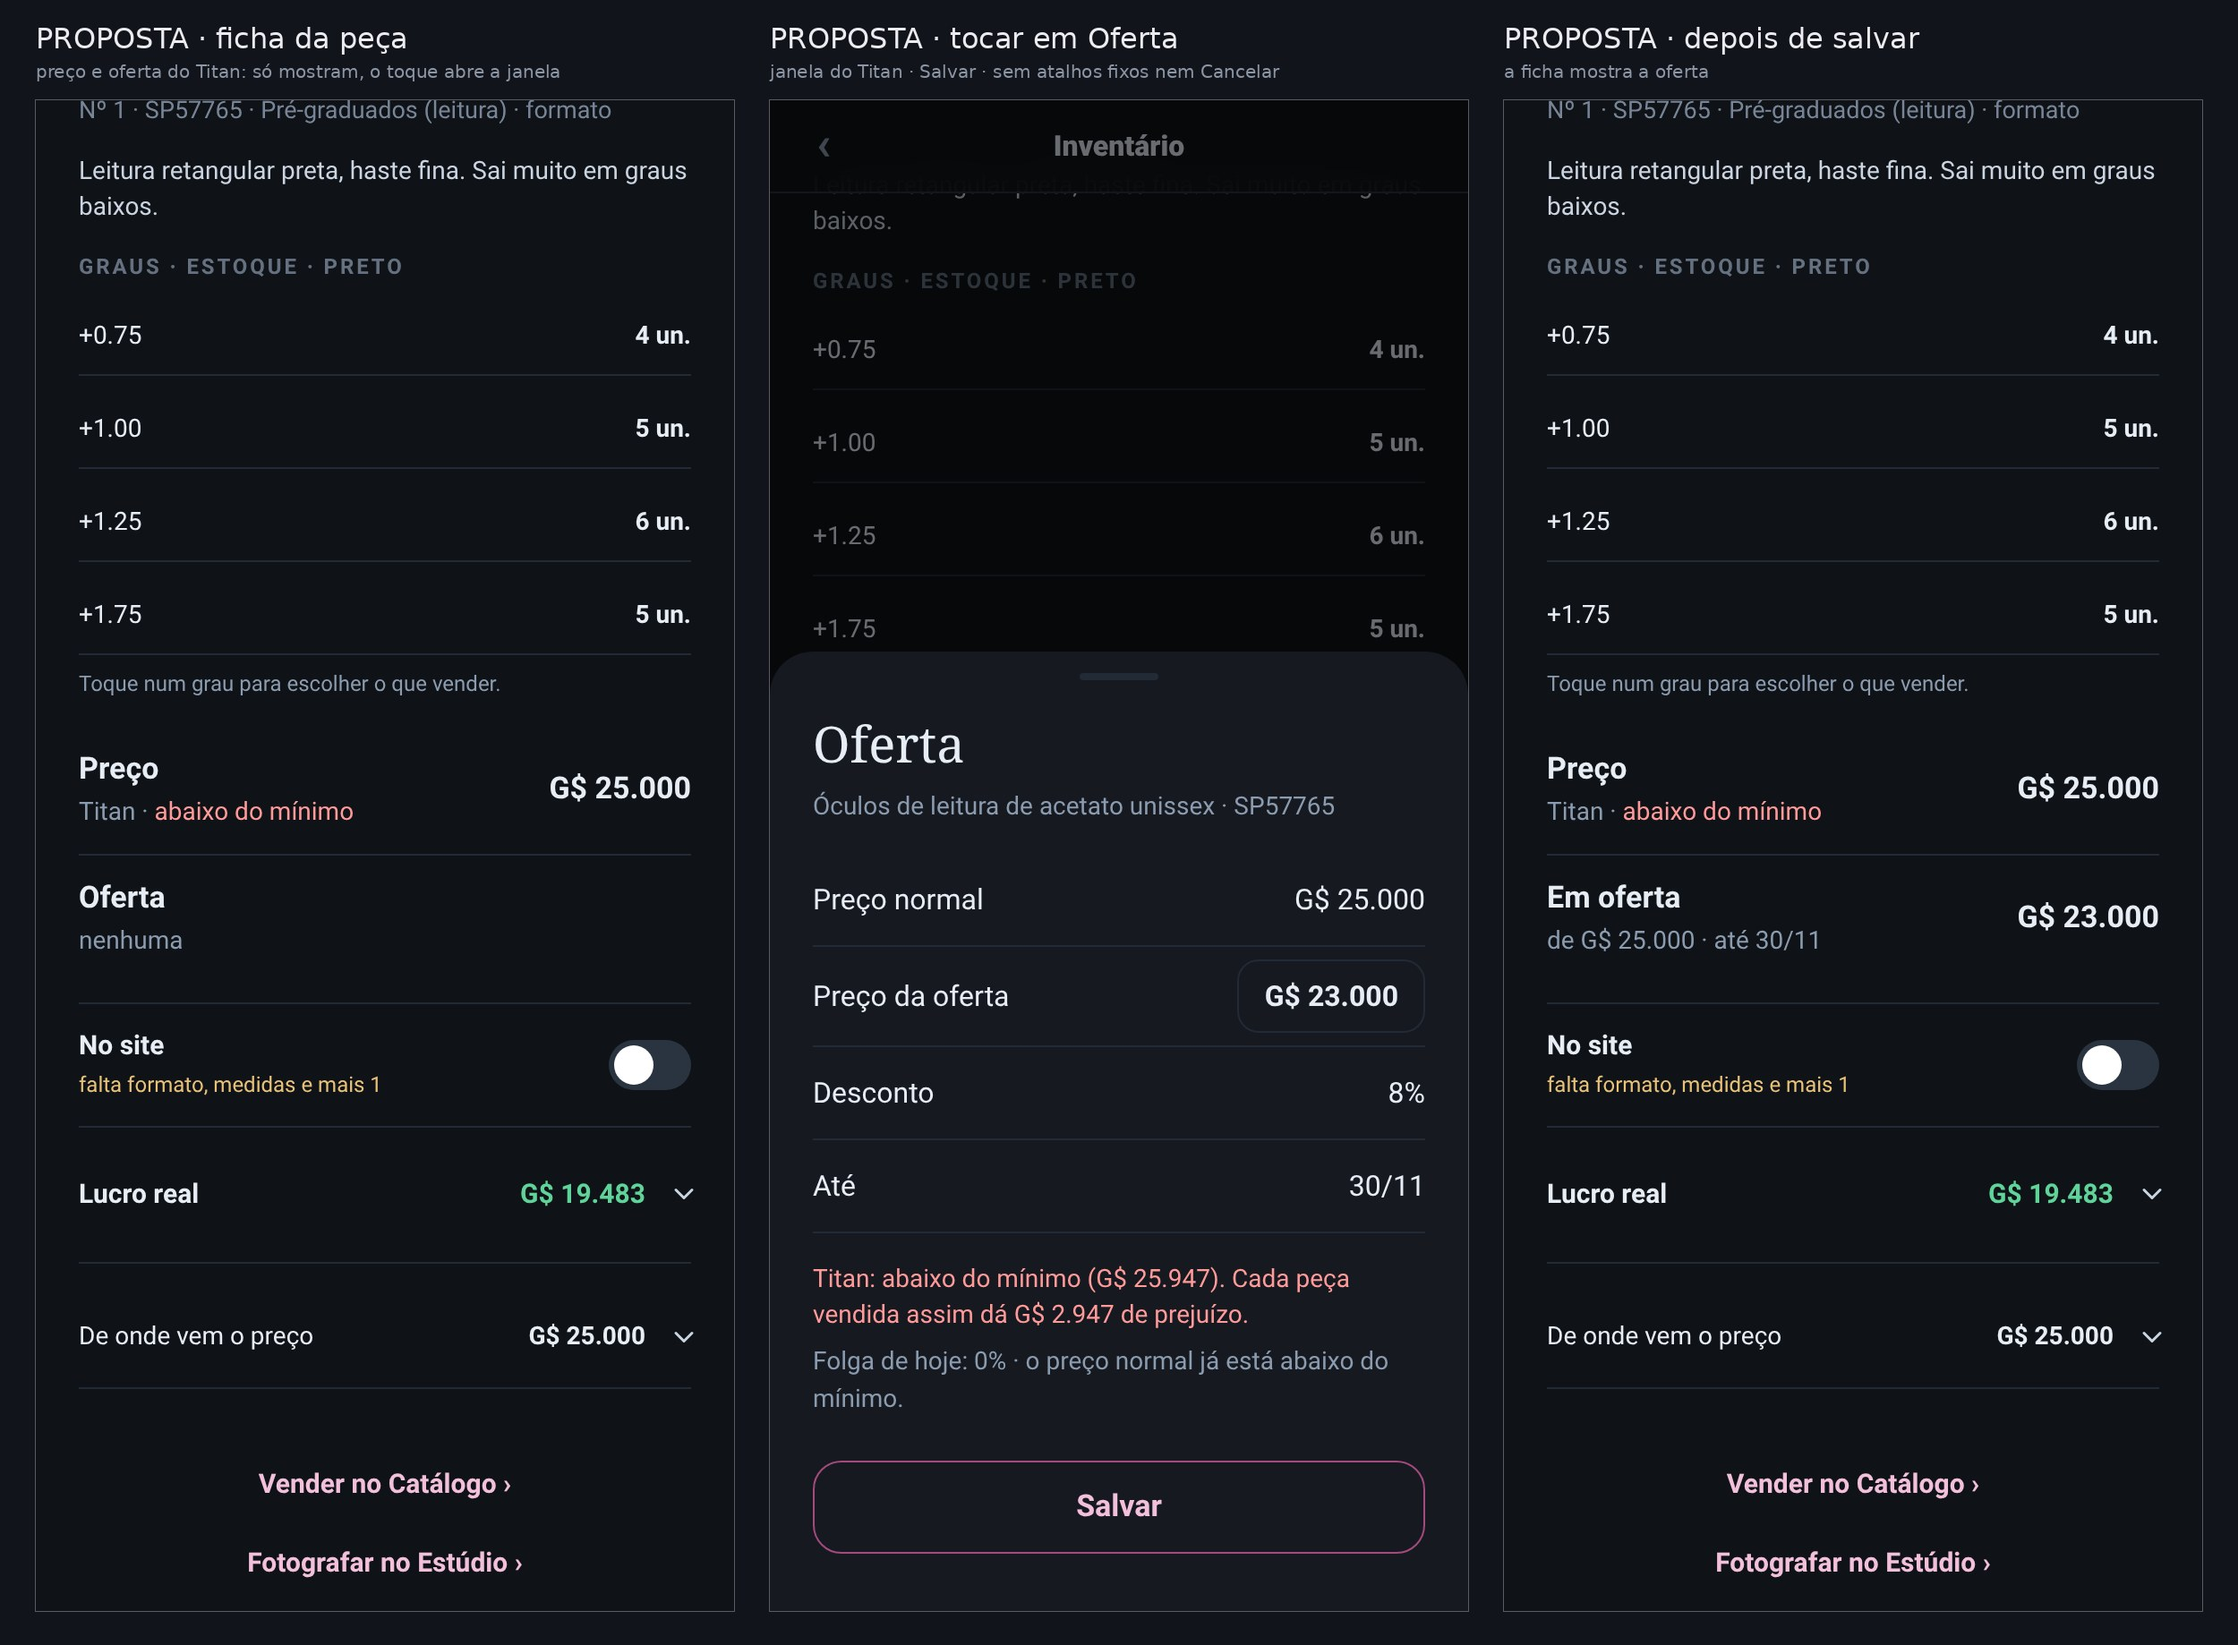
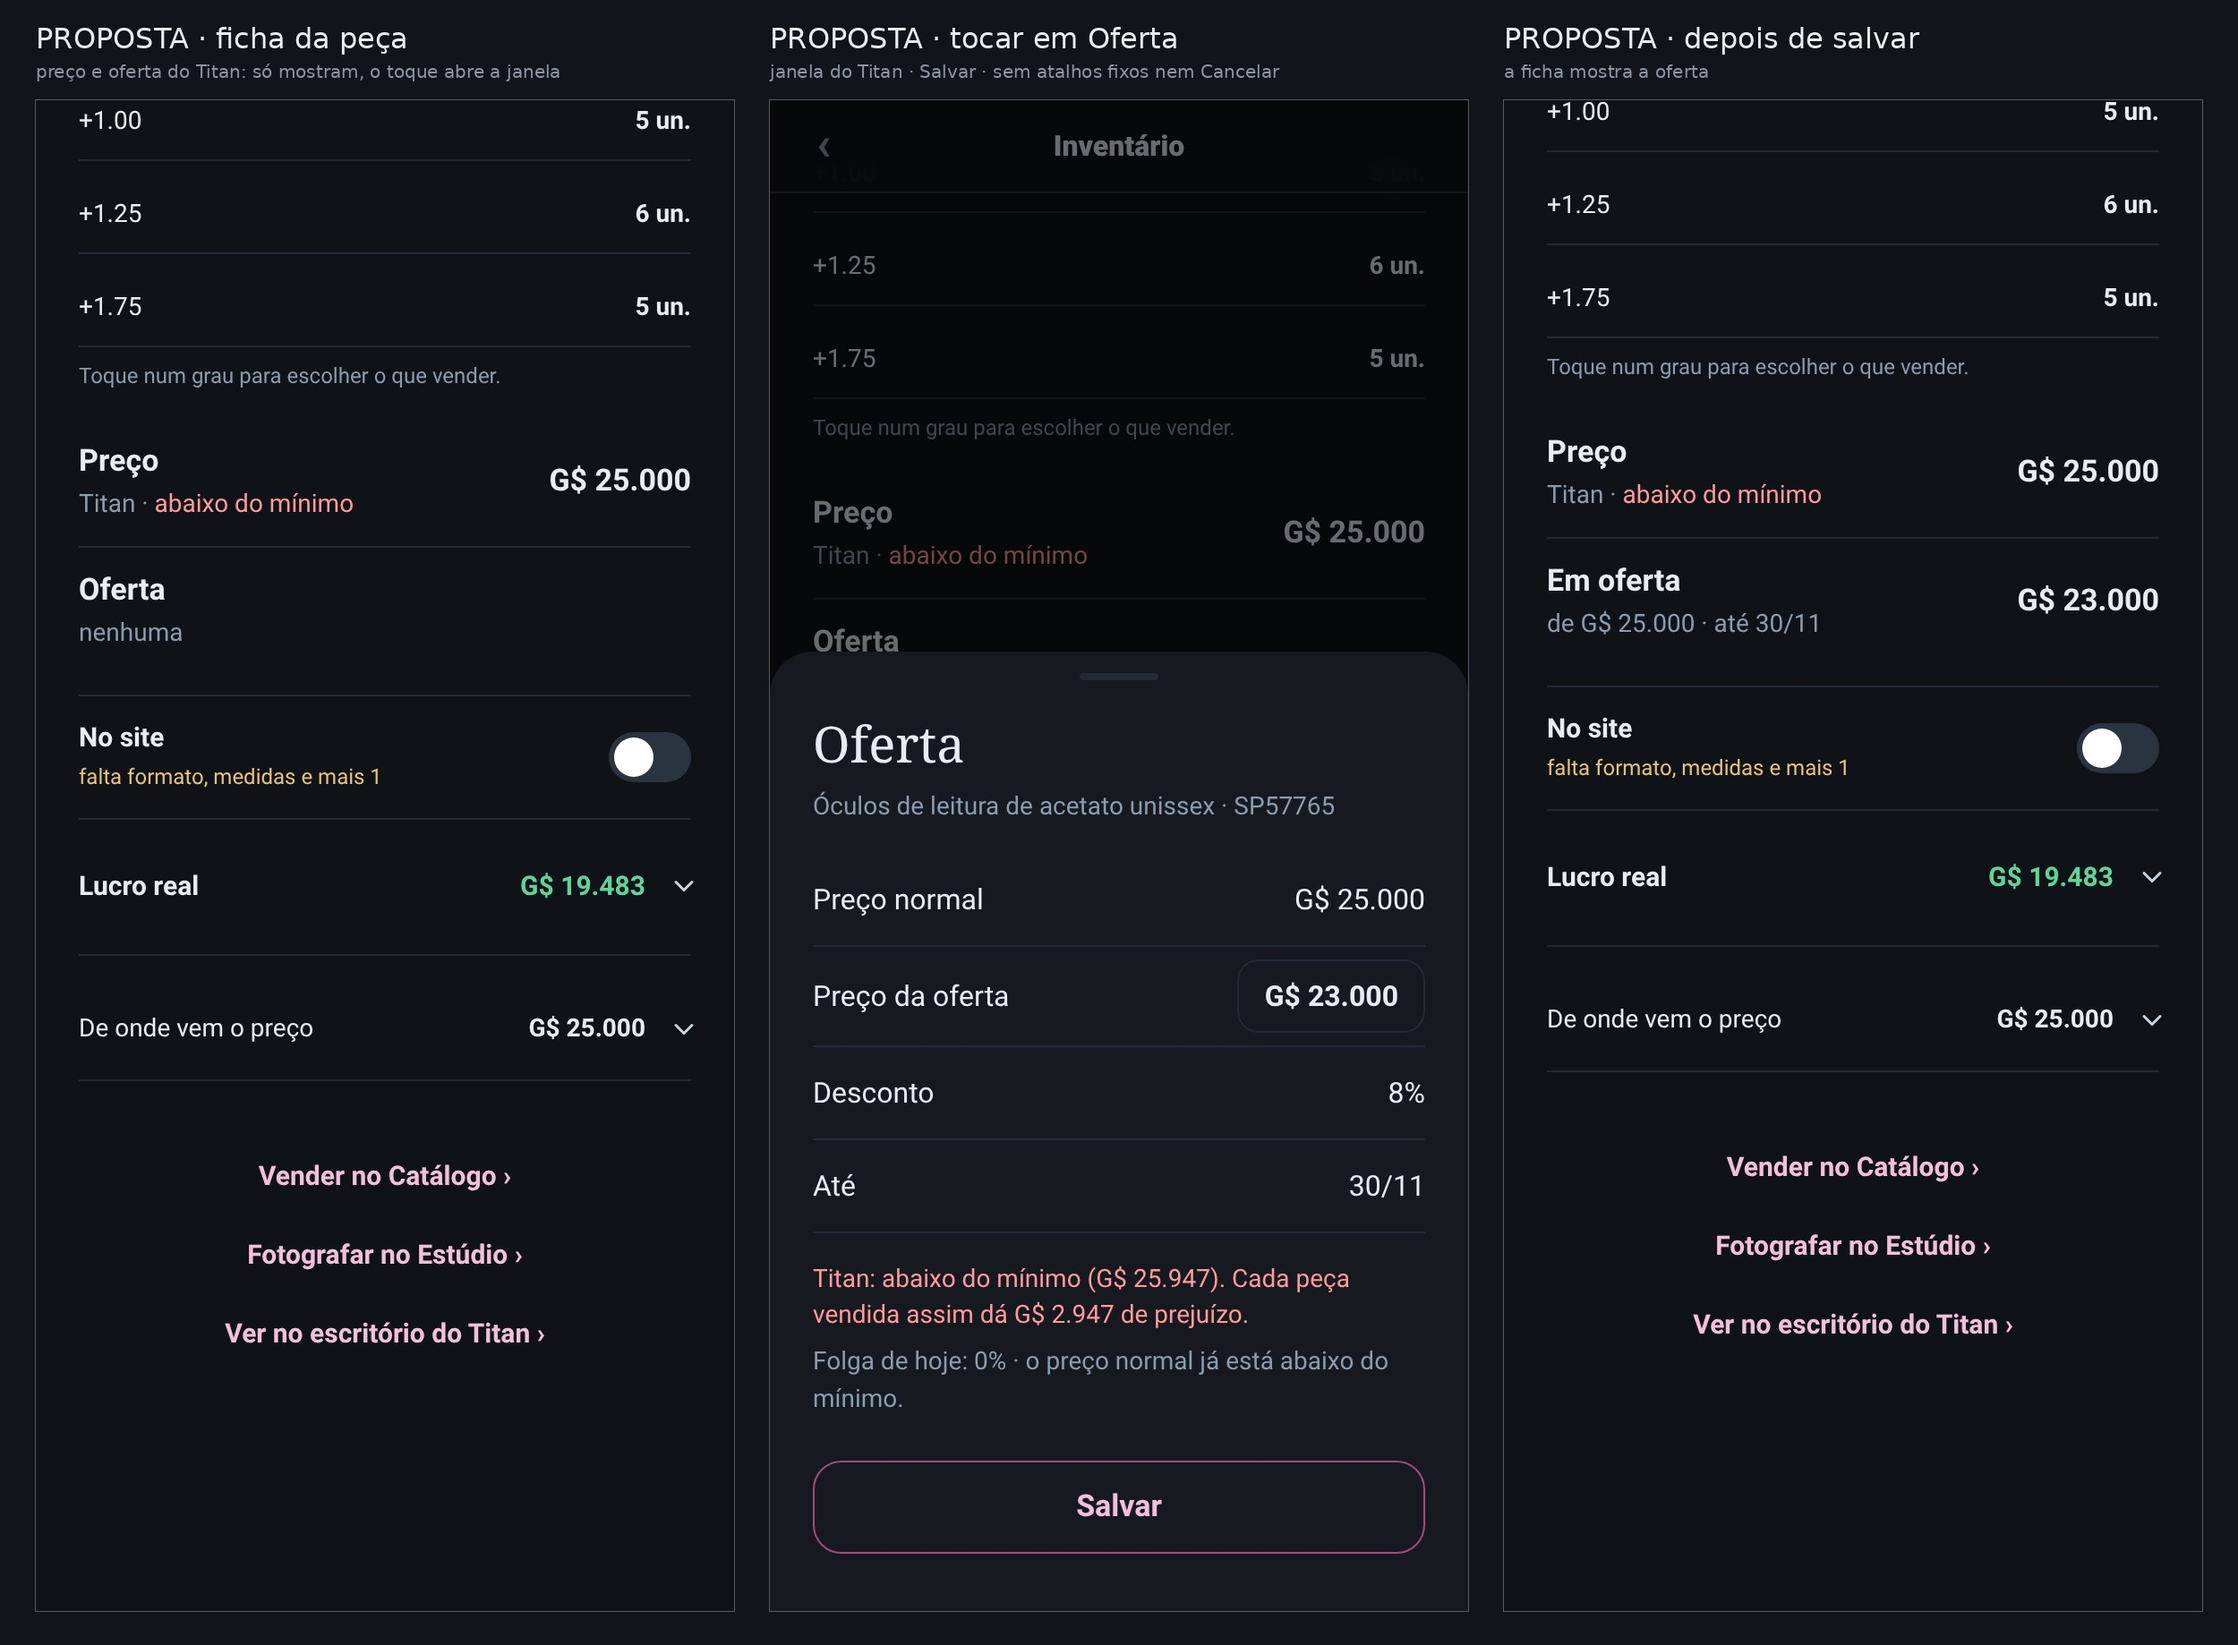
64: link para o escritório do Titan
Claude-Session: https://claude.ai/code/session_01Vj5GPRt4UBskC3w8v52h7G

diff --git a/work/s435/titan/esboco_64.py b/work/s435/titan/esboco_64.py
@@ -22,7 +22,8 @@ def abre(pw):
   return b,pg,w
 def tela(pw,qual):
   b,pg,w=abre(pw);ficha(pg,w,qual=='depois')
-  pg.evaluate("()=>document.getElementById('precoCard').scrollIntoView({block:'center'})");w(300)
+  pg.evaluate(r"""()=>{const a=[...document.querySelectorAll('button,a')].find(x=>/^Fotografar no Estúdio/.test(x.textContent.trim()));if(a&&!document.getElementById('e64t')){const n=a.cloneNode(true);n.id='e64t';n.removeAttribute('data-act');n.textContent='Ver no escritório do Titan ›';a.after(n)}}""");w(200)  # 3º link aprovado 22/11 12:48
+  pg.evaluate("()=>(()=>{const e=document.getElementById('precoCard');window.scrollTo(0,e.getBoundingClientRect().top+scrollY-160)})()");w(300)
   if qual=='janela':
     pg.evaluate(r"""()=>{const L=(r,v,c)=>'<div style="display:flex;align-items:center;justify-content:space-between;min-height:52px;border-bottom:1px solid var(--line2);font-size:16px"><span>'+r+'</span><span style="color:'+(c||'var(--fg)')+'">'+v+'</span></div>';
       const d=document.createElement('div');d.id='e64';d.style.cssText='position:fixed;inset:0;z-index:9999;background:rgba(0,0,0,.55);display:flex;align-items:flex-end';

diff --git a/docs/FALTA-APROVAR-15-11.md b/docs/FALTA-APROVAR-15-11.md
@@ -1110,3 +1110,4 @@ Não são esquecimento (estavam na lista, parados de propósito ou por ordem do 
 - 22/11 12:40 · DONO cobrou (de novo) a regra 10: mostrar só o APROVADO (vai ser o novo), não o app de hoje. Erros meus: mandei a ficha de HOJE e o 52b inteiro (que tem 'Hoje' e partes superadas pelo 52d). Feito: work/s435/titan/inventario_aprovado.jpg = só o aprovado (52d topo e fim da página · Parados e sobrando do 52b · Filtros do 58h) e o fundo do 58h corrigido com o resumo '16 referências · US$ 420 a custo' e o selo 2 no '+'. Daqui em diante: todo envio é sobre o aprovado; a ficha da peça e a janela Oferta serão desenhadas já em cima disso.
 - 22/11 12:55 · ESBOCO: esboço 64 enviado (ficha da peça + janela Oferta do Titan, base aprovada): a ficha troca o campo 'Preço (US$)' editável e o botão '% Oferta' por duas linhas que só mostram — 'Preço · Titan · abaixo do mínimo · G$ 25.000' e 'Oferta · nenhuma' (ou 'Em oferta · de G$ 25.000 · até 30/11 · G$ 23.000'); tocar abre a janela Oferta (Preço normal · Preço da oferta · Desconto · Até 30/11 · aviso do Titan (mínimo, prejuízo por peça, folga de hoje) · Salvar). Saem: atalhos fixos −5%…−30%, 'Cancelar', data mm/dd/yyyy. CORREÇÃO MINHA: o app JÁ tira o IVA (preço ÷ 11) no Lucro real e no contador (src/97y-lucro-real.js) — no 62 eu disse que não considerava; a linha IVA em Regras só mostra o que já existe. Kit: o aprovado 136 simulado deixava duas setas no Lucro real (corrigido no esboço).
 - 22/11 12:47 · DONO: 'Aprovado' → 64 APROVADO (ficha só mostra Preço e Oferta do Titan; janela Oferta). Resumo dele: Estúdio = fotos · Catálogo = vendas · escritório do Titan = preços — 'perfeito e organizado'. Perguntou se falta um link da ficha para o escritório — proposta em conversa: 3º link no fim da ficha, 'Ver no escritório do Titan ›', igual aos dois que já existem (Vender no Catálogo › · Fotografar no Estúdio ›).
+- 22/11 12:48 · DONO: 'Sim' → APROVADO o 3º link no fim da ficha: 'Ver no escritório do Titan ›' (junto de 'Vender no Catálogo ›' e 'Fotografar no Estúdio ›'); abre o escritório e, quando o setor Histórico existir, o histórico desta peça. 64 refeito com o link.

diff --git a/docs/MEMORIA-PROJETO.md b/docs/MEMORIA-PROJETO.md
@@ -3612,3 +3612,4 @@ Testar TUDO, com muita calma, antes de dizer que está pronto ou de publicar: ca
 - 22/11 12:40 · DONO cobrou (de novo) a regra 10: mostrar só o APROVADO (vai ser o novo), não o app de hoje. Erros meus: mandei a ficha de HOJE e o 52b inteiro (que tem 'Hoje' e partes superadas pelo 52d). Feito: work/s435/titan/inventario_aprovado.jpg = só o aprovado (52d topo e fim da página · Parados e sobrando do 52b · Filtros do 58h) e o fundo do 58h corrigido com o resumo '16 referências · US$ 420 a custo' e o selo 2 no '+'. Daqui em diante: todo envio é sobre o aprovado; a ficha da peça e a janela Oferta serão desenhadas já em cima disso.
 - 22/11 12:55 · ESBOCO: esboço 64 enviado (ficha da peça + janela Oferta do Titan, base aprovada): a ficha troca o campo 'Preço (US$)' editável e o botão '% Oferta' por duas linhas que só mostram — 'Preço · Titan · abaixo do mínimo · G$ 25.000' e 'Oferta · nenhuma' (ou 'Em oferta · de G$ 25.000 · até 30/11 · G$ 23.000'); tocar abre a janela Oferta (Preço normal · Preço da oferta · Desconto · Até 30/11 · aviso do Titan (mínimo, prejuízo por peça, folga de hoje) · Salvar). Saem: atalhos fixos −5%…−30%, 'Cancelar', data mm/dd/yyyy. CORREÇÃO MINHA: o app JÁ tira o IVA (preço ÷ 11) no Lucro real e no contador (src/97y-lucro-real.js) — no 62 eu disse que não considerava; a linha IVA em Regras só mostra o que já existe. Kit: o aprovado 136 simulado deixava duas setas no Lucro real (corrigido no esboço).
 - 22/11 12:47 · DONO: 'Aprovado' → 64 APROVADO (ficha só mostra Preço e Oferta do Titan; janela Oferta). Resumo dele: Estúdio = fotos · Catálogo = vendas · escritório do Titan = preços — 'perfeito e organizado'. Perguntou se falta um link da ficha para o escritório — proposta em conversa: 3º link no fim da ficha, 'Ver no escritório do Titan ›', igual aos dois que já existem (Vender no Catálogo › · Fotografar no Estúdio ›).
+- 22/11 12:48 · DONO: 'Sim' → APROVADO o 3º link no fim da ficha: 'Ver no escritório do Titan ›' (junto de 'Vender no Catálogo ›' e 'Fotografar no Estúdio ›'); abre o escritório e, quando o setor Histórico existir, o histórico desta peça. 64 refeito com o link.
